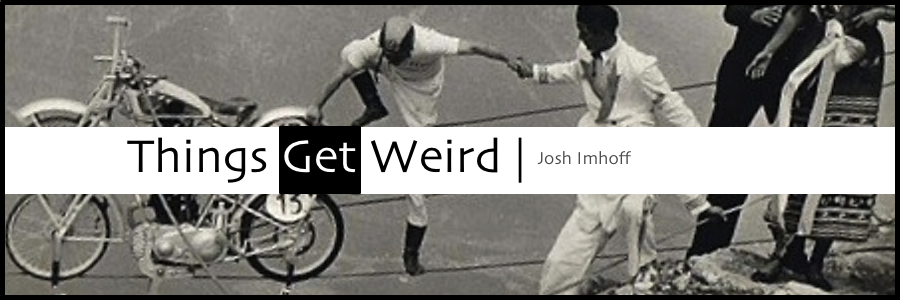
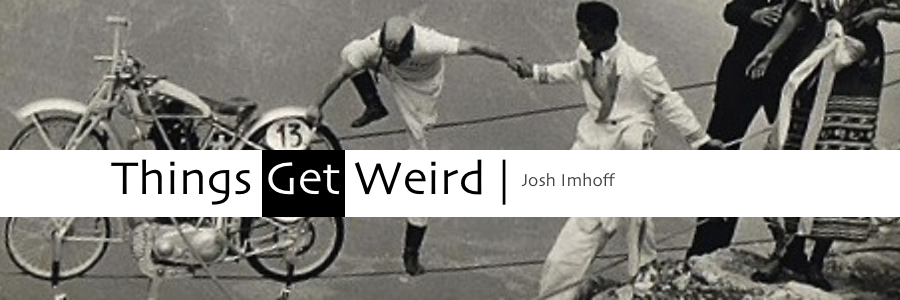
Rounded rectangles and other improvements

Changed region(s): [[0.0, 0.0, 1.0, 1.0]]

diff --git a/css/style.css b/css/style.css
@@ -10,13 +10,33 @@ body {
 
 #post {
     padding:10px;
+    margin-top:15px;
+    margin-bottom:15px;
     background-color:white;
+    -moz-border-radius: 10px;
+    -webkit-border-radius: 10px;
+    border-radius: 10px; /* future proofing */
+    -khtml-border-radius: 10px; /* for old Konqueror browsers */
+    box-shadow: 5px 5px 2px #888888;
+}
+
+img {
+    -moz-border-radius: 10px;
+    -webkit-border-radius: 10px;
+    border-radius: 10px; /* future proofing */
+    -khtml-border-radius: 10px; /* for old Konqueror browsers */
 }
 
 footer {
     padding:10px;
+    margin-top:15px;
+    margin-bottom:15px;
     color:white;
     background-color:black;
+    -moz-border-radius: 10px;
+    -webkit-border-radius: 10px;
+    border-radius: 10px; /* future proofing */
+    -khtml-border-radius: 10px; /* for old Konqueror browsers */
 }
 
 h1 {

diff --git a/_layouts/default.html b/_layouts/default.html
@@ -10,7 +10,9 @@
  
     <header>
         <a href='/'>
-          <img src="/images/banner.jpg" width=600 height=200 border="0" alt="Things Get Crazy">
+          <div id="banner">
+            <img src="/images/banner.jpg" width=600 height=200 border="0" alt="Things Get Crazy">
+          </div>
         </a>
     <header>
 
